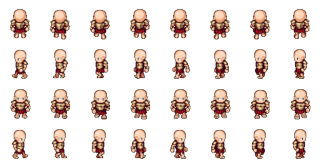
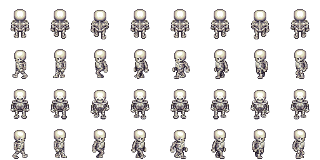
enemy sprites revised and tab info added

diff --git a/client/public/index.html b/client/public/index.html
@@ -7,36 +7,15 @@
   <link href="https://fonts.googleapis.com/css?family=Nova+Flat" rel="stylesheet">
   <meta name="viewport" content="width=device-width, initial-scale=1, shrink-to-fit=no" />
   <meta name="theme-color" content="#000000" />
-  <!--
-      manifest.json provides metadata used when your web app is installed on a
-      user's mobile device or desktop. See https://developers.google.com/web/fundamentals/web-app-manifest/
-    -->
+ 
   <link rel="manifest" href="%PUBLIC_URL%/manifest.json" />
-  <!--
-      Notice the use of %PUBLIC_URL% in the tags above.
-      It will be replaced with the URL of the `public` folder during the build.
-      Only files inside the `public` folder can be referenced from the HTML.
 
-      Unlike "/favicon.ico" or "favicon.ico", "%PUBLIC_URL%/favicon.ico" will
-      work correctly both with client-side routing and a non-root public URL.
-      Learn how to configure a non-root public URL by running `npm run build`.
-    -->
-  <title>React App</title>
+  <title>Kingdom of Tripolis</title>
 </head>
 
 <body>
-  <noscript>You need to enable JavaScript to run this app.</noscript>
   <div id="root"></div>
-  <!--
-      This HTML file is a template.
-      If you open it directly in the browser, you will see an empty page.
 
-      You can add webfonts, meta tags, or analytics to this file.
-      The build step will place the bundled scripts into the <body> tag.
-
-      To begin the development, run `npm start` or `yarn start`.
-      To create a production bundle, use `npm run build` or `yarn build`.
-    -->
 </body>
 
 </html>

diff --git a/client/src/components/world/index.js b/client/src/components/world/index.js
@@ -1,6 +1,5 @@
 import React from 'react';
 import PropTypes from 'prop-types';
-import { Link } from 'react-router-dom';
 import Map from '../map';
 import Player from '../player/index';
 import Enemy from '../enemy/index';
